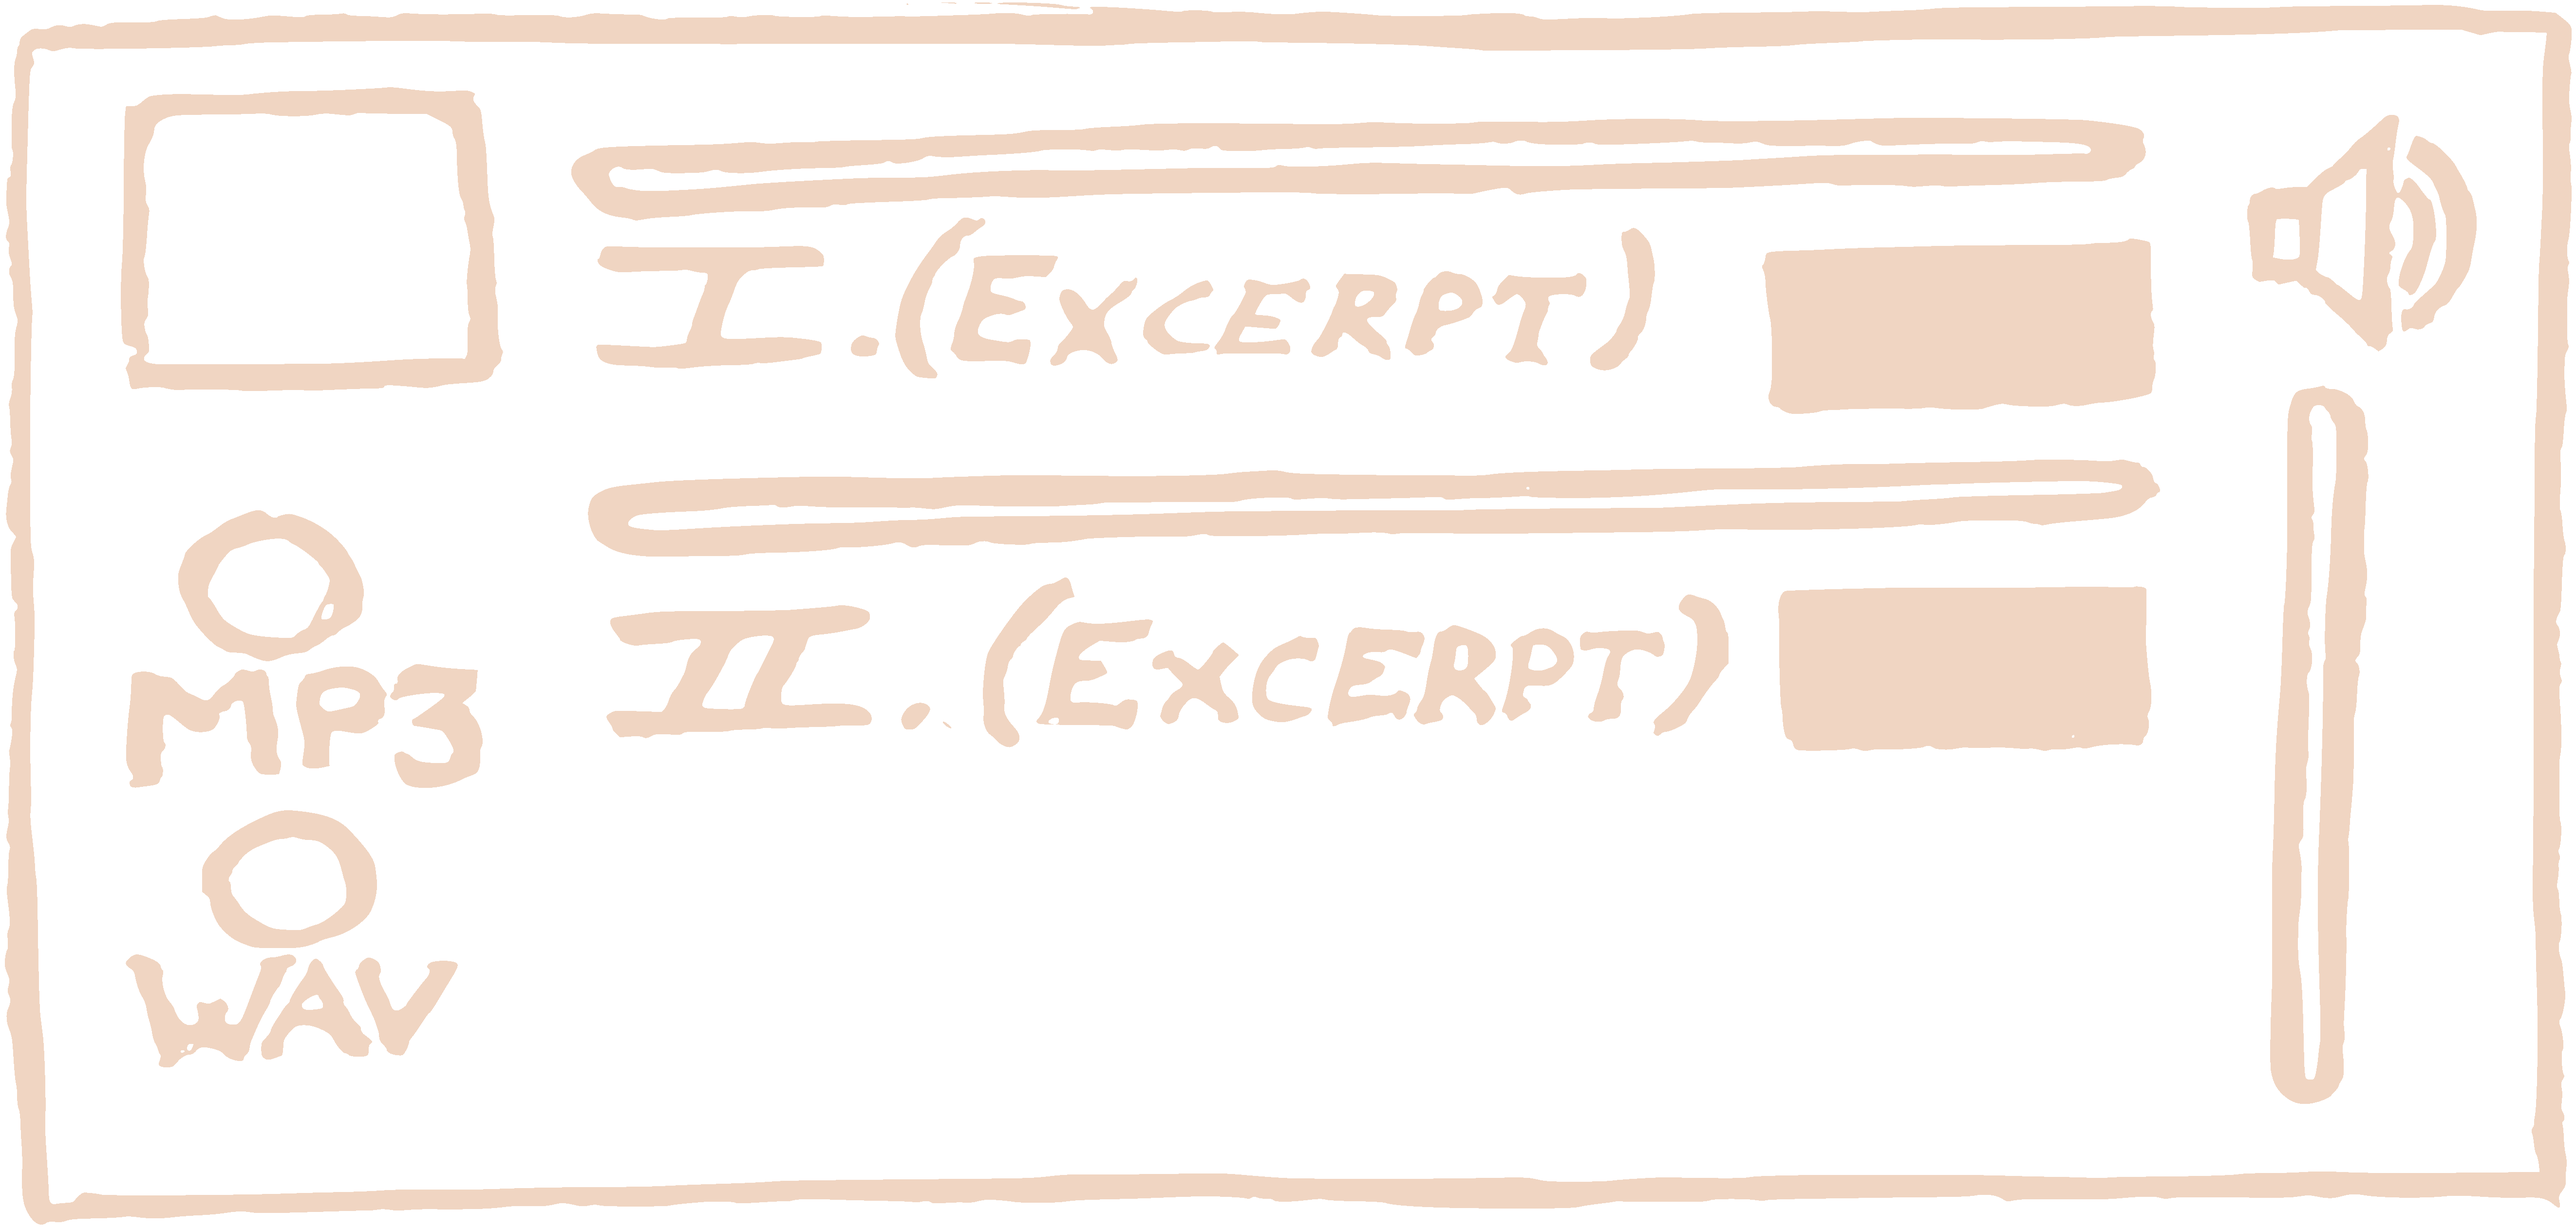
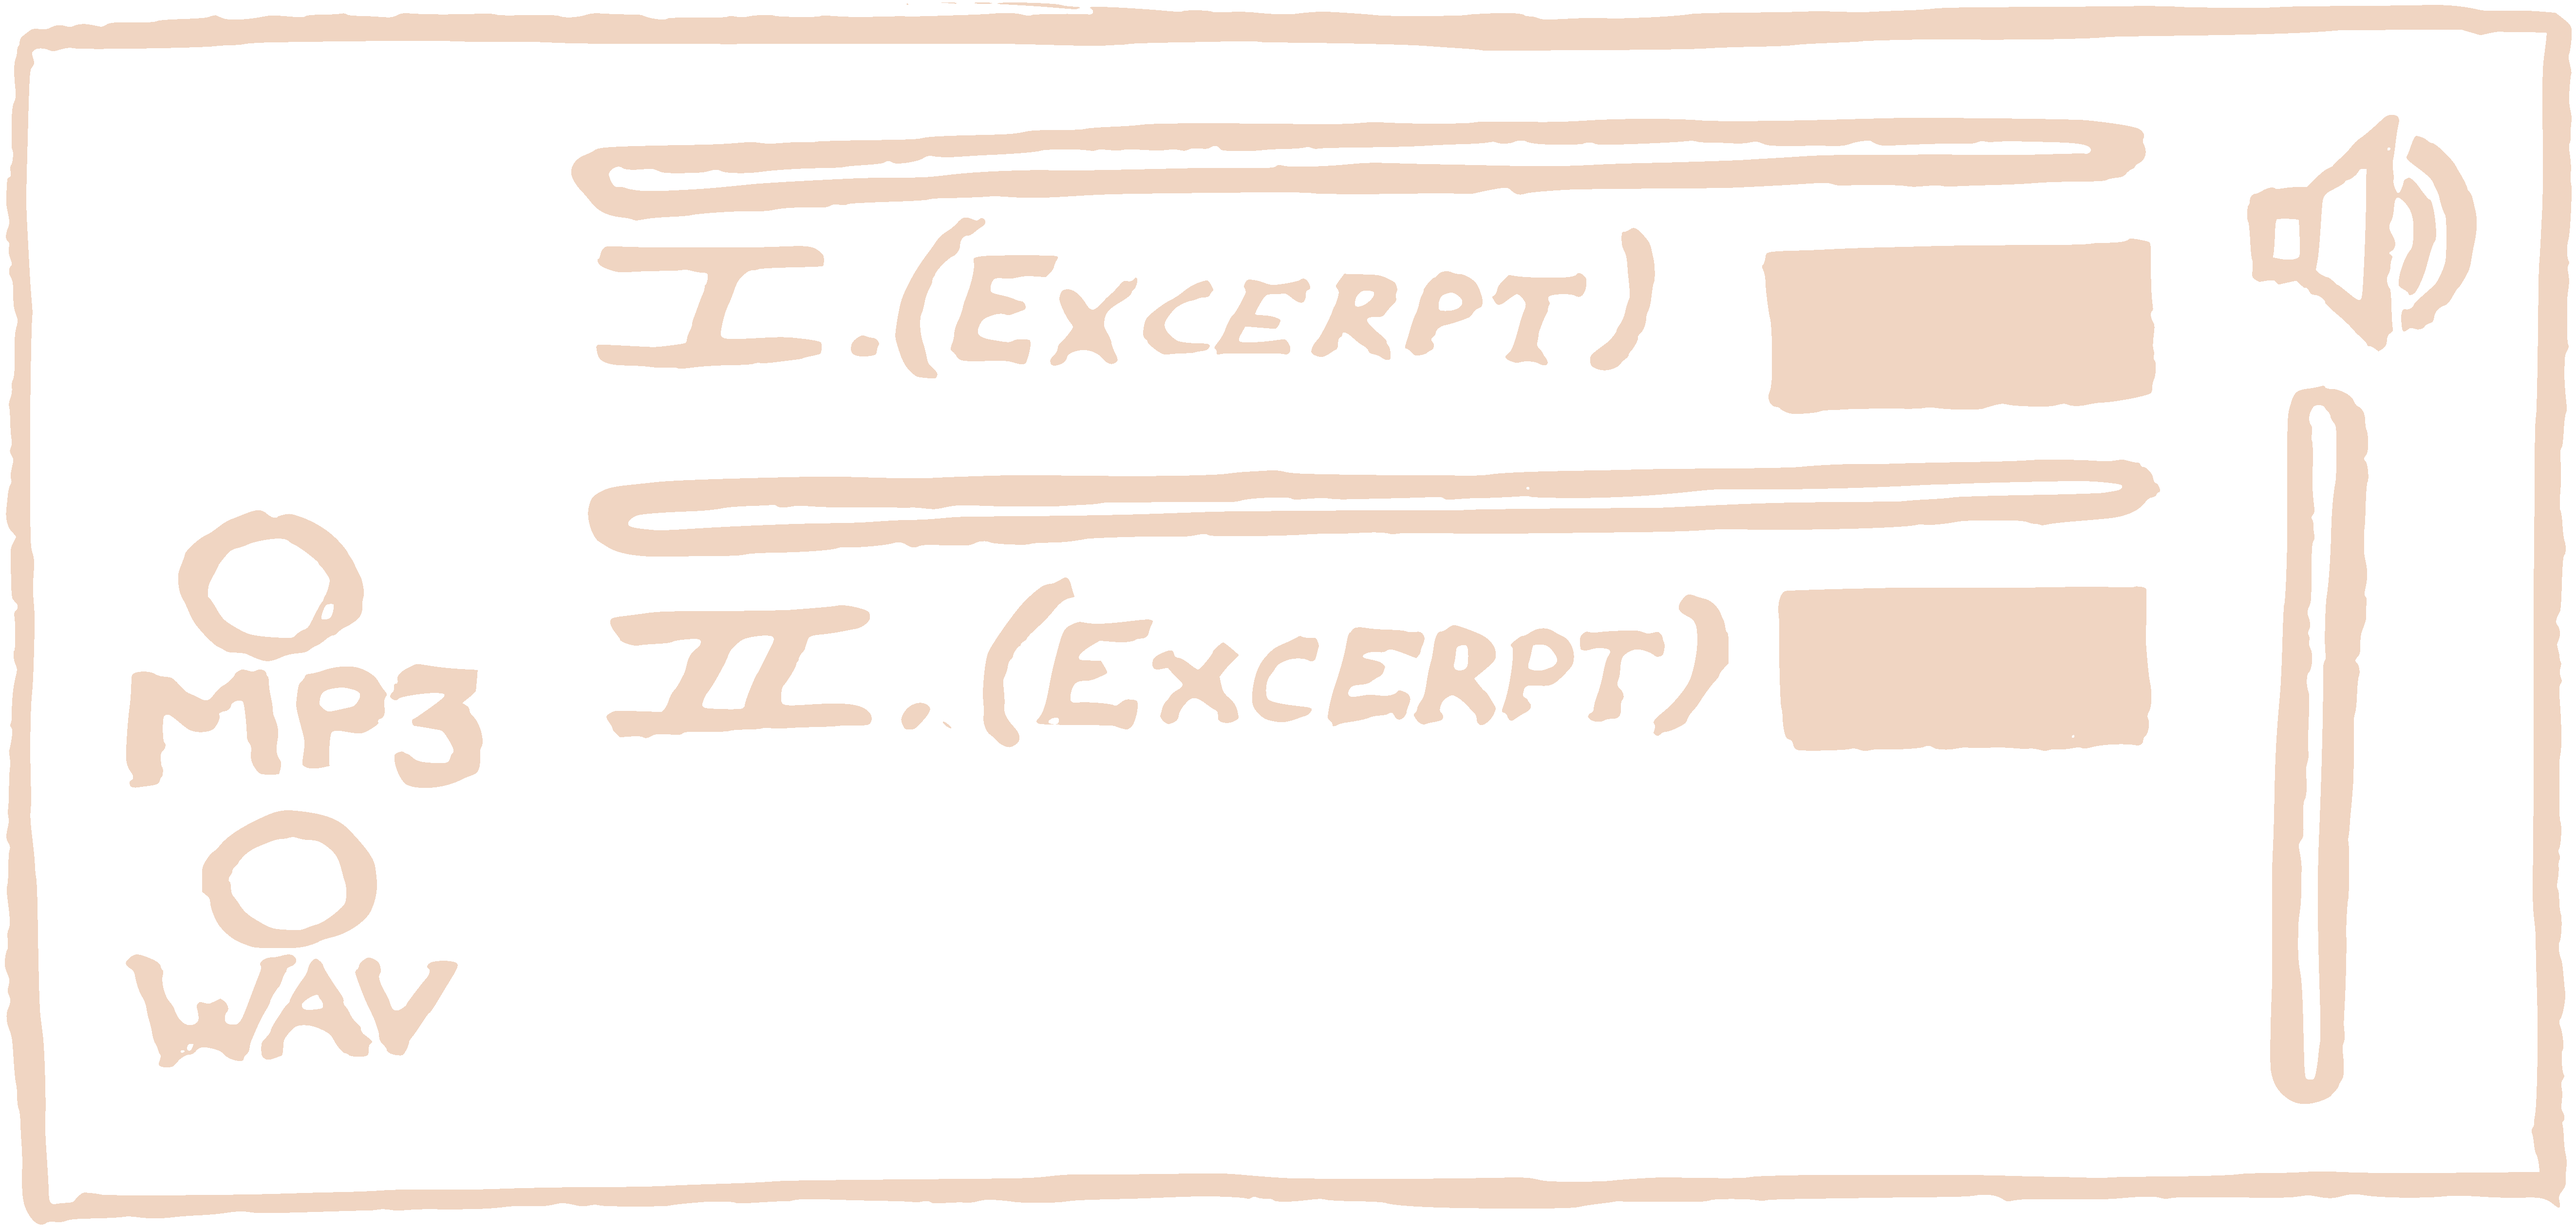
Give each track its own small play/pause button, start of row
The single shared play/pause button (big box, top-left) was a mistake
in the base drawing per the user - replaced with a smaller button at
the start of each track's own row, right before its seek bar. Erased
the old box from np-panel.png (painted transparent) and rewired
new-player.js so each button directly controls its own <audio>, still
pausing the other on play (single active track at a time).

Changed region(s): [[0.0312, 0.0618, 0.2184, 0.3399]]

diff --git a/audio-es.html b/audio-es.html
@@ -17,7 +17,7 @@
 <meta property="og:image:height" content="1623">
 <meta name="twitter:card" content="summary_large_image">
 <link rel="icon" type="image/png" href="favicon.png?v=2">
-<link rel="stylesheet" href="styles.css?v=276">
+<link rel="stylesheet" href="styles.css?v=277">
 </head>
 <body class="audio-page">
 <nav class="lang-selector" aria-label="Language">
@@ -35,10 +35,13 @@
         <img src="burnin-chamber-music-cover.jpg" alt="Portada del álbum: una criatura roja de rostro liso en forma de máscara, bajo un cielo estrellado y una luna oscura" class="native-audio-cover">
         <div class="native-audio-tracklist">
           <div class="new-player">
-            <img src="np-panel.png?v=1" class="new-player-bg" alt="">
-            <button type="button" class="new-player-playhit" aria-label="Reproducir o pausar"></button>
-            <img src="np-play.png?v=1" class="new-player-play-icon" alt="">
-            <img src="np-pause.png?v=1" class="new-player-pause-icon" alt="">
+            <img src="np-panel.png?v=2" class="new-player-bg" alt="">
+            <button type="button" class="new-player-playhit1" aria-label="Reproducir o pausar pista I"></button>
+            <img src="np-play.png?v=1" class="new-player-play-icon1" alt="">
+            <img src="np-pause.png?v=1" class="new-player-pause-icon1" alt="">
+            <button type="button" class="new-player-playhit2" aria-label="Reproducir o pausar pista II"></button>
+            <img src="np-play.png?v=1" class="new-player-play-icon2" alt="">
+            <img src="np-pause.png?v=1" class="new-player-pause-icon2" alt="">
             <div class="new-player-seek1" role="slider" aria-label="Avance pista I" aria-valuemin="0" aria-valuemax="100" aria-valuenow="0"></div>
             <img src="np-knob.png?v=3" class="new-player-knob new-player-seek1-knob" alt="">
             <p class="new-player-counter new-player-counter1">0:00 / 0:00</p>
@@ -69,6 +72,6 @@
   <a href="agenda-es.html"><img src="titre-agenda.png?v=2" alt="Agenda - Comodoro Süleyman"></a>
   <a href="contact-es.html"><img src="titre-contact.png?v=2" alt="Contact - Comodoro Süleyman"></a>
 </nav>
-<script src="new-player.js?v=2" defer></script>
+<script src="new-player.js?v=3" defer></script>
 </body>
 </html>

diff --git a/audio-ro.html b/audio-ro.html
@@ -17,7 +17,7 @@
 <meta property="og:image:height" content="1623">
 <meta name="twitter:card" content="summary_large_image">
 <link rel="icon" type="image/png" href="favicon.png?v=2">
-<link rel="stylesheet" href="styles.css?v=276">
+<link rel="stylesheet" href="styles.css?v=277">
 </head>
 <body class="audio-page">
 <nav class="lang-selector" aria-label="Language">
@@ -35,10 +35,13 @@
         <img src="burnin-chamber-music-cover.jpg" alt="Coperta albumului: o creatură roșie cu chip neted, în formă de mască, sub un cer înstelat și o lună întunecată" class="native-audio-cover">
         <div class="native-audio-tracklist">
           <div class="new-player">
-            <img src="np-panel.png?v=1" class="new-player-bg" alt="">
-            <button type="button" class="new-player-playhit" aria-label="Redare sau pauză"></button>
-            <img src="np-play.png?v=1" class="new-player-play-icon" alt="">
-            <img src="np-pause.png?v=1" class="new-player-pause-icon" alt="">
+            <img src="np-panel.png?v=2" class="new-player-bg" alt="">
+            <button type="button" class="new-player-playhit1" aria-label="Redare sau pauză piesa I"></button>
+            <img src="np-play.png?v=1" class="new-player-play-icon1" alt="">
+            <img src="np-pause.png?v=1" class="new-player-pause-icon1" alt="">
+            <button type="button" class="new-player-playhit2" aria-label="Redare sau pauză piesa II"></button>
+            <img src="np-play.png?v=1" class="new-player-play-icon2" alt="">
+            <img src="np-pause.png?v=1" class="new-player-pause-icon2" alt="">
             <div class="new-player-seek1" role="slider" aria-label="Progres piesa I" aria-valuemin="0" aria-valuemax="100" aria-valuenow="0"></div>
             <img src="np-knob.png?v=3" class="new-player-knob new-player-seek1-knob" alt="">
             <p class="new-player-counter new-player-counter1">0:00 / 0:00</p>
@@ -69,6 +72,6 @@
   <a href="agenda-ro.html"><img src="titre-agenda.png?v=2" alt="Agenda - Comodoro Süleyman"></a>
   <a href="contact-ro.html"><img src="titre-contact.png?v=2" alt="Contact - Comodoro Süleyman"></a>
 </nav>
-<script src="new-player.js?v=2" defer></script>
+<script src="new-player.js?v=3" defer></script>
 </body>
 </html>

diff --git a/audio-fr.html b/audio-fr.html
@@ -17,7 +17,7 @@
 <meta property="og:image:height" content="1623">
 <meta name="twitter:card" content="summary_large_image">
 <link rel="icon" type="image/png" href="favicon.png?v=2">
-<link rel="stylesheet" href="styles.css?v=276">
+<link rel="stylesheet" href="styles.css?v=277">
 </head>
 <body class="audio-page">
 <nav class="lang-selector" aria-label="Language">
@@ -35,10 +35,13 @@
         <img src="burnin-chamber-music-cover.jpg" alt="Pochette de l'album : une créature rouge au visage lisse en forme de masque, sous un ciel étoilé et une lune sombre" class="native-audio-cover">
         <div class="native-audio-tracklist">
           <div class="new-player">
-            <img src="np-panel.png?v=1" class="new-player-bg" alt="">
-            <button type="button" class="new-player-playhit" aria-label="Lecture ou pause"></button>
-            <img src="np-play.png?v=1" class="new-player-play-icon" alt="">
-            <img src="np-pause.png?v=1" class="new-player-pause-icon" alt="">
+            <img src="np-panel.png?v=2" class="new-player-bg" alt="">
+            <button type="button" class="new-player-playhit1" aria-label="Lecture ou pause piste I"></button>
+            <img src="np-play.png?v=1" class="new-player-play-icon1" alt="">
+            <img src="np-pause.png?v=1" class="new-player-pause-icon1" alt="">
+            <button type="button" class="new-player-playhit2" aria-label="Lecture ou pause piste II"></button>
+            <img src="np-play.png?v=1" class="new-player-play-icon2" alt="">
+            <img src="np-pause.png?v=1" class="new-player-pause-icon2" alt="">
             <div class="new-player-seek1" role="slider" aria-label="Avancement piste I" aria-valuemin="0" aria-valuemax="100" aria-valuenow="0"></div>
             <img src="np-knob.png?v=3" class="new-player-knob new-player-seek1-knob" alt="">
             <p class="new-player-counter new-player-counter1">0:00 / 0:00</p>
@@ -69,6 +72,6 @@
   <a href="agenda-fr.html"><img src="titre-agenda.png?v=2" alt="Agenda - Comodoro Süleyman"></a>
   <a href="contact-fr.html"><img src="titre-contact.png?v=2" alt="Contact - Comodoro Süleyman"></a>
 </nav>
-<script src="new-player.js?v=2" defer></script>
+<script src="new-player.js?v=3" defer></script>
 </body>
 </html>

diff --git a/audio.html b/audio.html
@@ -17,7 +17,7 @@
 <meta property="og:image:height" content="1623">
 <meta name="twitter:card" content="summary_large_image">
 <link rel="icon" type="image/png" href="favicon.png?v=2">
-<link rel="stylesheet" href="styles.css?v=276">
+<link rel="stylesheet" href="styles.css?v=277">
 </head>
 <body class="audio-page">
 <nav class="lang-selector" aria-label="Language">
@@ -35,10 +35,13 @@
         <img src="burnin-chamber-music-cover.jpg" alt="Album cover: a red creature with a smooth, mask-like face against a starry night sky and a dark moon" class="native-audio-cover">
         <div class="native-audio-tracklist">
           <div class="new-player">
-            <img src="np-panel.png?v=1" class="new-player-bg" alt="">
-            <button type="button" class="new-player-playhit" aria-label="Play or pause"></button>
-            <img src="np-play.png?v=1" class="new-player-play-icon" alt="">
-            <img src="np-pause.png?v=1" class="new-player-pause-icon" alt="">
+            <img src="np-panel.png?v=2" class="new-player-bg" alt="">
+            <button type="button" class="new-player-playhit1" aria-label="Play or pause track I"></button>
+            <img src="np-play.png?v=1" class="new-player-play-icon1" alt="">
+            <img src="np-pause.png?v=1" class="new-player-pause-icon1" alt="">
+            <button type="button" class="new-player-playhit2" aria-label="Play or pause track II"></button>
+            <img src="np-play.png?v=1" class="new-player-play-icon2" alt="">
+            <img src="np-pause.png?v=1" class="new-player-pause-icon2" alt="">
             <div class="new-player-seek1" role="slider" aria-label="Seek track I" aria-valuemin="0" aria-valuemax="100" aria-valuenow="0"></div>
             <img src="np-knob.png?v=3" class="new-player-knob new-player-seek1-knob" alt="">
             <p class="new-player-counter new-player-counter1">0:00 / 0:00</p>
@@ -69,6 +72,6 @@
   <a href="agenda.html"><img src="titre-agenda.png?v=2" alt="Agenda - Comodoro Süleyman"></a>
   <a href="contact.html"><img src="titre-contact.png?v=2" alt="Contact - Comodoro Süleyman"></a>
 </nav>
-<script src="new-player.js?v=2" defer></script>
+<script src="new-player.js?v=3" defer></script>
 </body>
 </html>

diff --git a/styles.css b/styles.css
@@ -416,15 +416,23 @@ nav.menu a:hover, nav.menu a:focus-visible { opacity: .6; }
 .new-player { position: relative; width: 100%; touch-action: none; }
 .new-player-bg { display: block; width: 100%; height: auto; }
 .new-player audio { display: none; }
-.new-player-playhit {
-  position: absolute; left: 4.52%; top: 6.75%; width: 14.88%; height: 24.88%;
+/* le bouton play/pause unique du dessin d'origine (grand cadre en haut
+   à gauche) était une erreur de composition - remplacé par un bouton
+   réduit au début de CHAQUE piste, repeint par-dessus l'espace laissé
+   vide dans np-panel.png (zone de l'ancien cadre, effacée). */
+.new-player-playhit1, .new-player-playhit2 {
+  position: absolute; width: 7%; height: 16%;
   margin: 0; padding: 0; border: 0; background: none; cursor: pointer;
 }
-.new-player-play-icon, .new-player-pause-icon {
-  position: absolute; left: 6.87%; top: 10.66%; width: 9.62%; pointer-events: none;
-}
-.new-player-pause-icon, .new-player.is-playing .new-player-play-icon { display: none; }
-.new-player.is-playing .new-player-pause-icon { display: block; }
+.new-player-playhit1 { left: 15%; top: 8%; }
+.new-player-playhit2 { left: 16%; top: 36%; }
+.new-player-play-icon1, .new-player-pause-icon1 { position: absolute; left: 15%; top: 8%; width: 7%; pointer-events: none; }
+.new-player-play-icon2, .new-player-pause-icon2 { position: absolute; left: 16%; top: 36%; width: 7%; pointer-events: none; }
+.new-player-pause-icon1, .new-player-pause-icon2 { display: none; }
+.new-player.is-playing1 .new-player-play-icon1 { display: none; }
+.new-player.is-playing1 .new-player-pause-icon1 { display: block; }
+.new-player.is-playing2 .new-player-play-icon2 { display: none; }
+.new-player.is-playing2 .new-player-pause-icon2 { display: block; }
 .new-player-seek1, .new-player-seek2, .new-player-volume { position: absolute; cursor: pointer; }
 /* zone cliquable agrandie (pas juste le fin trait) pour couvrir tout le
    titre + la piste - toute la ligne sélectionne/joue cette piste. */

diff --git a/new-player.js b/new-player.js
@@ -8,7 +8,10 @@
   }
 
   document.querySelectorAll('.new-player').forEach(function (player) {
-    var playBtn = player.querySelector('.new-player-playhit');
+    var playBtns = [
+      player.querySelector('.new-player-playhit1'),
+      player.querySelector('.new-player-playhit2')
+    ];
     var audios = [
       player.querySelector('.new-player-audio1'),
       player.querySelector('.new-player-audio2')
@@ -61,25 +64,28 @@
       active = i;
     }
 
-    function playActive() {
-      audios.forEach(function (a, i) { if (i !== active && a) a.pause(); });
-      if (audios[active]) audios[active].play();
+    function playTrack(i) {
+      audios.forEach(function (a, j) { if (j !== i && a) a.pause(); });
+      if (audios[i]) audios[i].play();
     }
 
-    playBtn.addEventListener('click', function () {
-      var a = audios[active];
-      if (!a) return;
-      if (a.paused) playActive(); else a.pause();
+    playBtns.forEach(function (btn, i) {
+      if (!btn) return;
+      btn.addEventListener('click', function () {
+        var a = audios[i];
+        if (!a) return;
+        if (a.paused) playTrack(i); else a.pause();
+      });
     });
 
     audios.forEach(function (a, i) {
       if (!a) return;
       a.addEventListener('play', function () {
         setActive(i);
-        player.classList.add('is-playing');
+        player.classList.add('is-playing' + (i + 1));
       });
       a.addEventListener('pause', function () {
-        if (i === active) player.classList.remove('is-playing');
+        player.classList.remove('is-playing' + (i + 1));
       });
       a.addEventListener('timeupdate', function () {
         if (a.duration) setKnobX(knobs[i], seeks[i], a.currentTime / a.duration);
